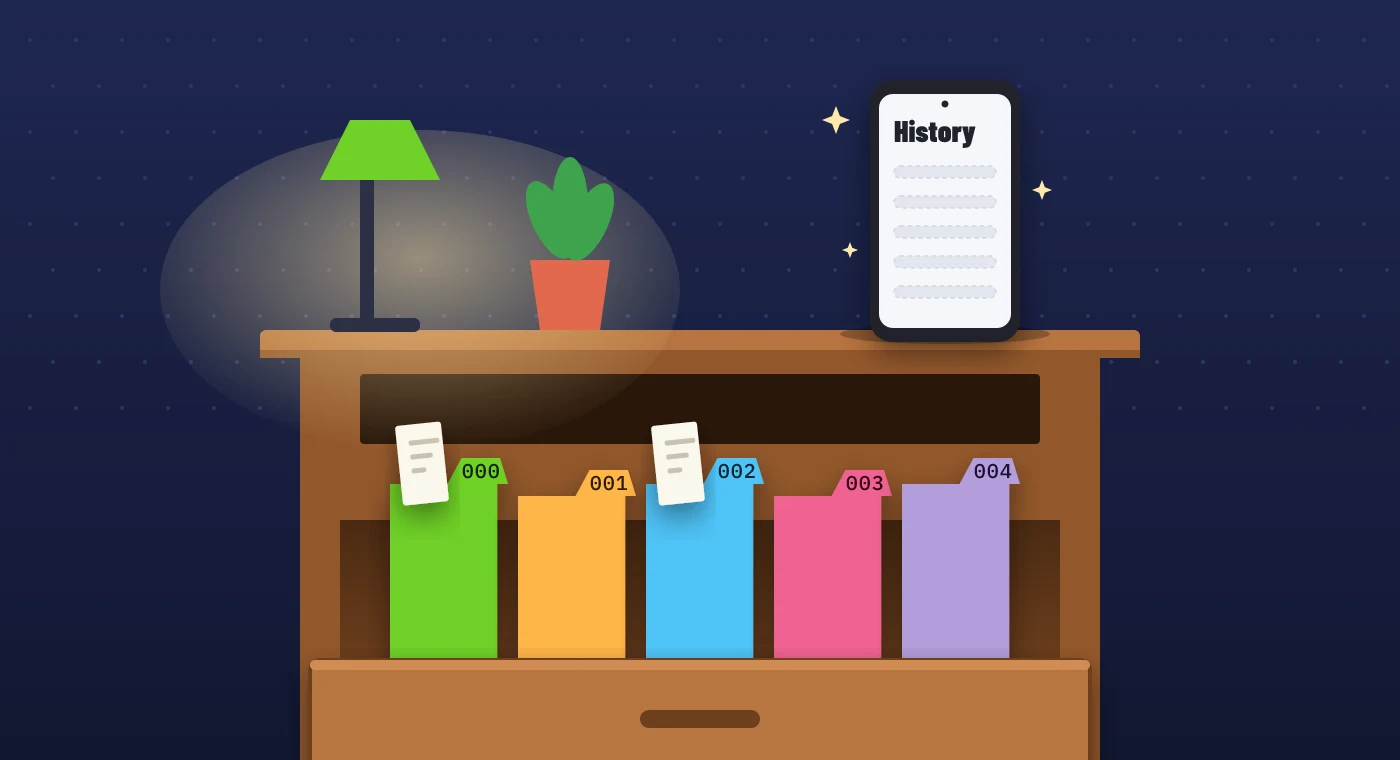
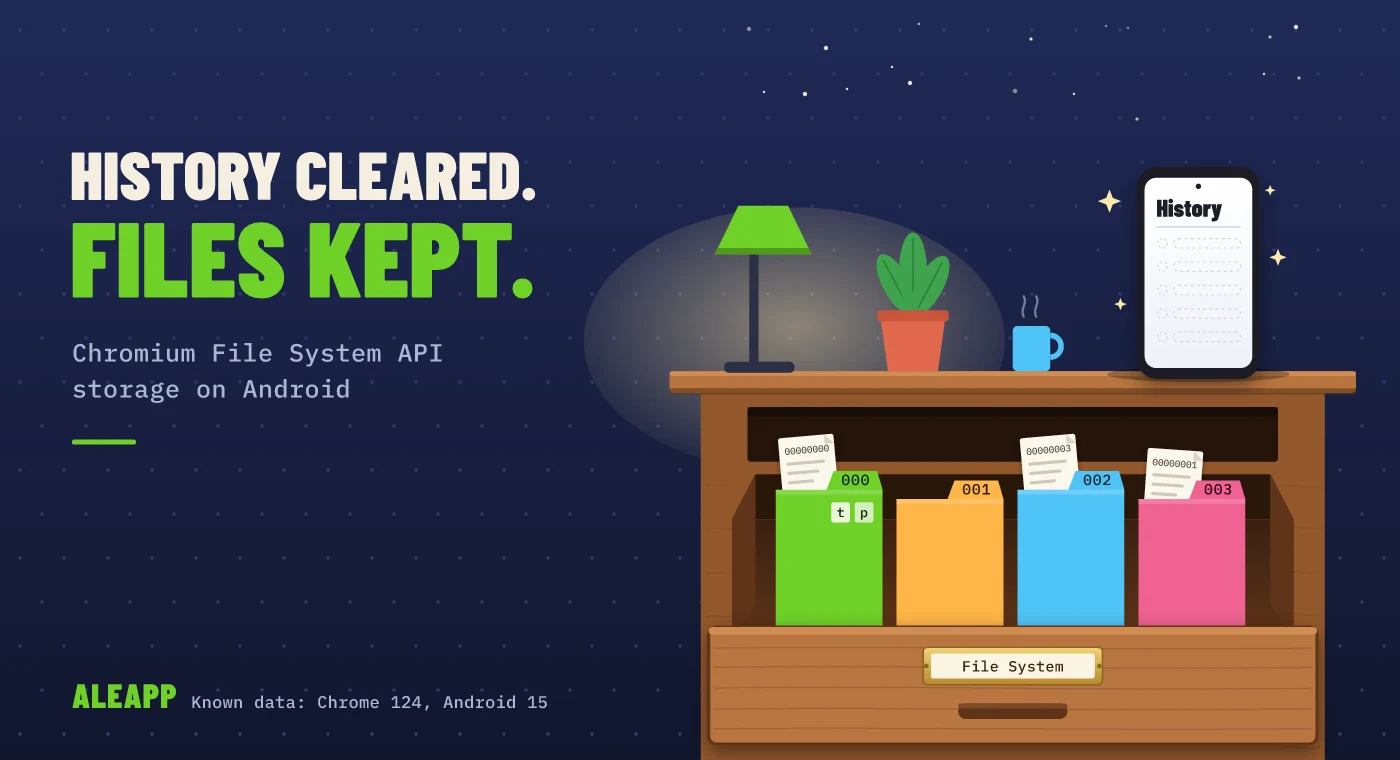
Make the hero more detailed and add a short headline

diff --git a/blog/posts/2026-10-29-chromium-file-system-survives-history.md b/blog/posts/2026-10-29-chromium-file-system-survives-history.md
@@ -8,7 +8,7 @@ excerpt: Websites can save real files inside a Chromium browser. On Android, tho
 
 # Clearing History Does Not Clear Chromium's File System Storage
 
-![A wooden desk at night under a green lamp. On the desk, a phone shows a History screen with every row blank and a few sparkles around it, as if wiped clean. Below, the desk's drawer is pulled open and full of colored file folders tabbed 000 to 004, two with papers sticking out.](https://cdn.jsdelivr.net/gh/abrignoni/leapps-website@main/blog/images/2026-10-29-chromium-file-system-survives-history/chromium-file-system-hero.webp)
+![Headline: History cleared. Files kept. Chromium File System API storage on Android. Beside it, a wooden desk at night under a green lamp. On the desk, a phone shows a History screen with every row blank and sparkles around it. Below, the desk's drawer, labelled File System on a brass plate, is pulled open and full of colored folders tabbed 000 to 003, the first with t and p dividers, and papers named 00000000, 00000003 and 00000001 sticking out. Footer: ALEAPP, known data: Chrome 124, Android 15.](https://cdn.jsdelivr.net/gh/abrignoni/leapps-website@main/blog/images/2026-10-29-chromium-file-system-survives-history/chromium-file-system-hero.webp)
 
 Websites can keep files inside your browser. Not cookies, not a database. Actual folders and files. Chromium gives sites APIs to do this, and the files sit in the browser profile under `File System`.
 
